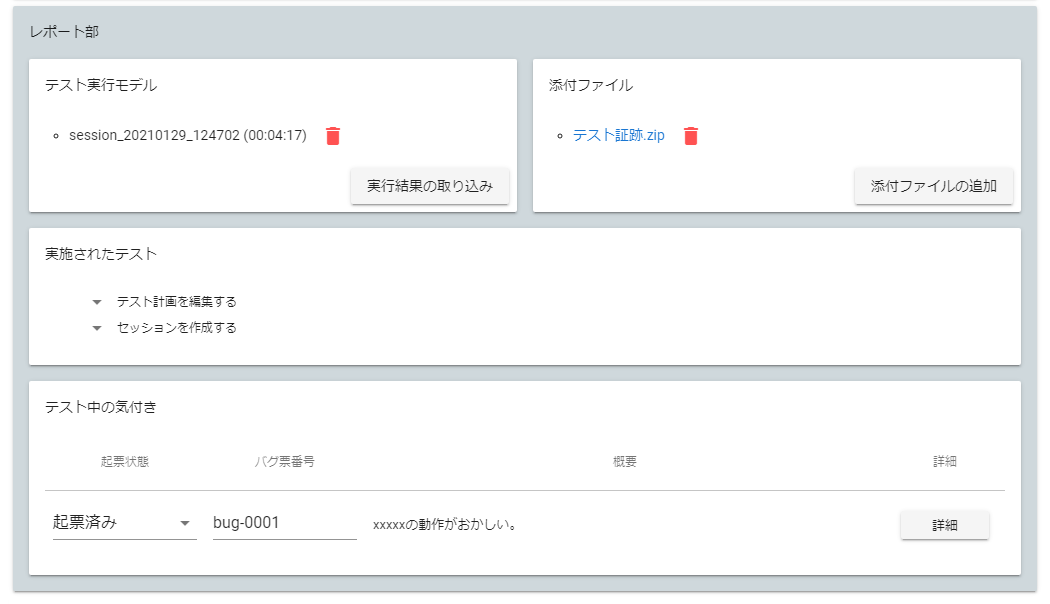
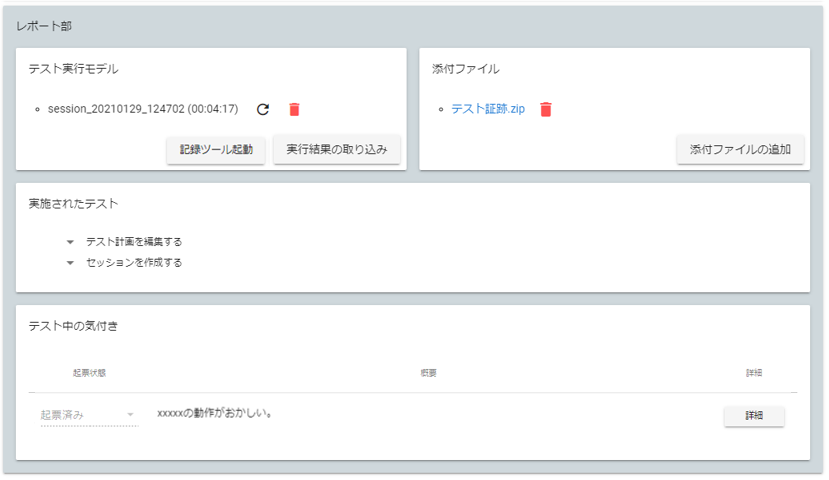
modify management manual

diff --git a/docs/manual/management/manual-management.md b/docs/manual/management/manual-management.md
@@ -317,13 +317,17 @@ OK ボタンを押下し、データがエクスポートされます。
 
 <img src="images/report.png" />
 
-テスト結果の読み込み、テスト証跡等のファイルの添付や、テスト実施者が実際に挙げた気づきをバグトラッキングシステム等に起票するか選択することができます。
+記録ツールの起動、テスト結果の読み込み、テスト証跡等のファイルの添付や、テスト実施者が実際に挙げた気づきを一覧で確認することができます。
 
 :warning: LatteArt 自身にはバグトラッキング機能/バグトラッキングシステムとの連携機能はありません。
 
 - テスト実行モデル
+  - 記録ツールを管理ツールから起動することができます。
+  - テスト結果が読み込まれていない場合は新規でテスト結果が作成され、読み込まれている場合は、読み込まれているテスト結果が記録ツールを起動した際に表示されます。
   - 記録ツールで記録されたテスト結果を読み込むことができます。
   - 読み込んだテスト結果は「[レビュー画面](#レビュー画面)」で詳細を確認することができます。
+  - 読み込んだテスト結果は再読込アイコンのボタンから再読込することができます。
+  - 読み込んだテスト結果はゴミ箱アイコンのボタンから削除することができます。
 - 添付ファイル
   - 任意のファイルを添付することができます。テスト証跡等を添付したい場合に使用してください。
   - 添付したファイルはゴミ箱アイコンのボタンから削除することができます。
@@ -331,7 +335,6 @@ OK ボタンを押下し、データがエクスポートされます。
   - 読み込んだテスト結果内に記録されている「テスト目的」が表示されます。
 - テスト中の気づき
   - 読み込んだテスト結果内に記録されている「気づき」が表示されます。
-  - 各気づきは「起票状態」欄でバグトラッキングシステム等に起票するかを選択することができ、「バグ票番号」でその際バグ番号を指定することができます。
   - 各気づきの「詳細」ボタンを押下すると詳細情報を確認することができます。
 
 # レビュー画面
